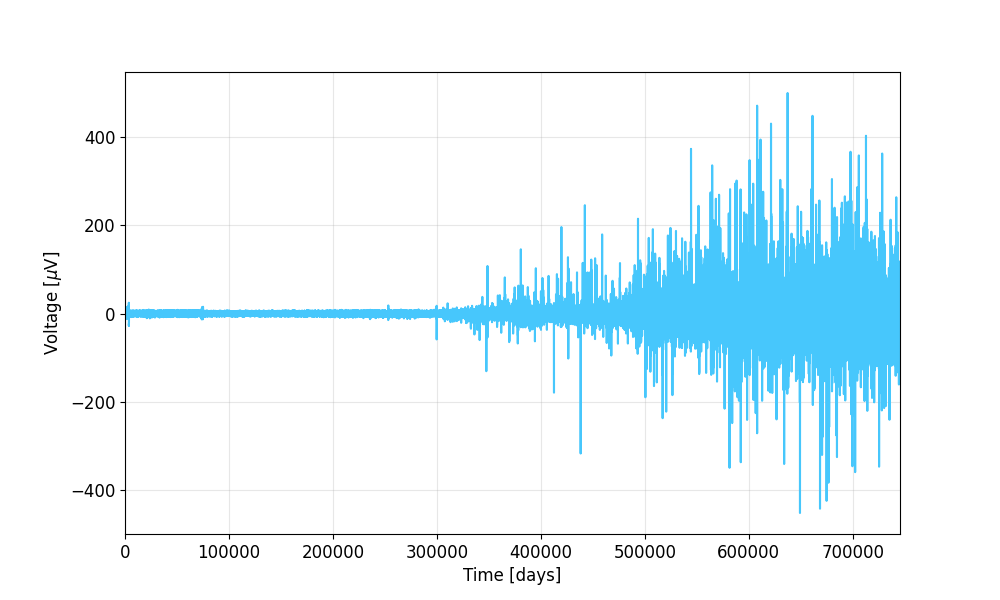
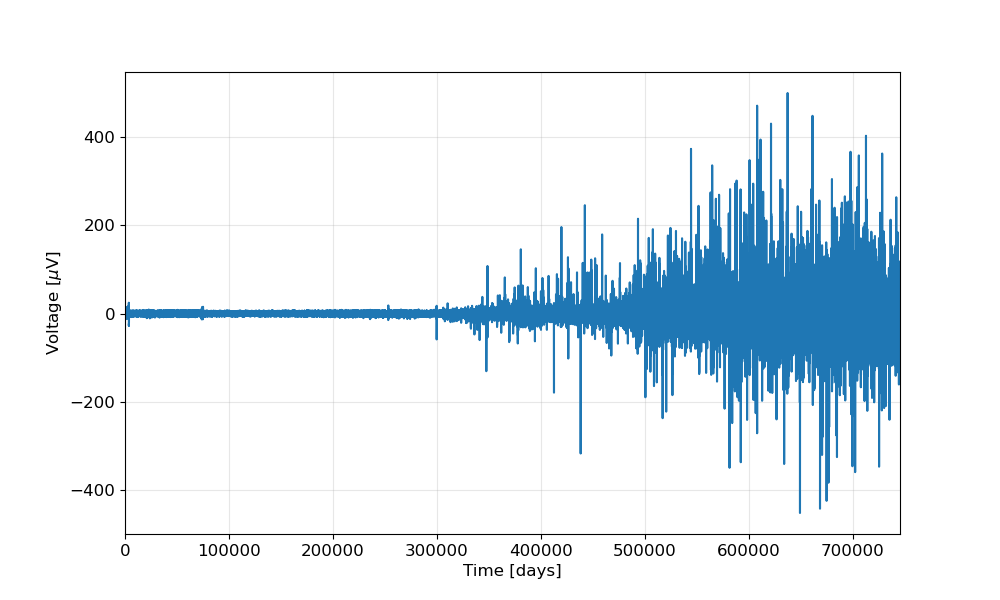
my final commit....., goodbye

diff --git a/spectrogram.py b/spectrogram.py
@@ -217,10 +217,10 @@ def saveSpectrogramSet(time, signal, signalName, folderName='plots', extension='
 # plotSpectrogram(time, fourier, 'Fourier')
 # plotSpectrogram(time, multiFourier, "MultiFourier")
 
-# saveSignal(time/(3600*24), voltage, 'plots/VoltageDays', save=True)
+saveSignal(time/(3600*24), voltage, 'plots/VoltageDays', save=True)
 
 # saveSpectrogramSet(time, signal=voltage, signalName='Voltage', changes=[['NFFT', [2**16, 2**18]]])
-saveSpectrogramSet(time, flattened, '5000ptFlattened', big=True)
+# saveSpectrogramSet(time, flattened, '5000ptFlattened', big=True)
 # saveSpectrogramSet(time, baseline, 'Baseline', big=True)
 # saveSpectrogramSet(time, butterworth, 'Butterworth')
 # saveSpectrogramSet(time, rollingAverage, "50PtRolling")
@@ -234,9 +234,9 @@ saveSpectrogramSet(time, flattened, '5000ptFlattened', big=True)
 
 # saveSpectrogram(time, multiFourier, 'plots/MultiFourierSpectrogramLogZoom', log=True, zoomToInterestingFrequencies=True)
 # saveSpectrogram(time, voltage, 'plots/VoltageSpectrogramLogZoom', log=True, zoomToInterestingFrequencies=True)
-# saveSpectrogramSet(time, voltage, 'Voltage', big=True)
+saveSpectrogramSet(time, voltage, 'Voltage', big=True)
 # saveSpectrogramSet(time, savgol, 'Savitzky-Golay', big=True)
-# saveSpectrogramSet(time, savgolOffset, 'Savitzky-GolayWithOffset', big=True)
+saveSpectrogramSet(time, savgolOffset, 'Savitzky-GolayWithOffset', big=True)
 
 # saveFFT(time, voltage, 'plots/VoltageLogFFT.png', log=True)
 # saveFFT(time, savgolOffset, 'plots/Savitzky-GolayWithOffsetFFT.png')

diff --git a/Data_visualisation_function.py b/Data_visualisation_function.py
@@ -10,7 +10,7 @@ def set_plt_defaults(font_size=12):
     """
     # Set the default color cycle to start with light blue and orange
     plt.rcParams['axes.prop_cycle'] = plt.cycler('color', 
-                                                ['#47c7fc', '#ff8000'])
+                                                ['#1f77b4', '#ff8000'])
     
     # Set font sizes
     plt.rcParams['font.size'] = font_size

diff --git a/nice-filtering-for-report.py b/nice-filtering-for-report.py
@@ -6,7 +6,7 @@ from scipy.signal import savgol_filter
 import Data_visualisation_function
 Data_visualisation_function.set_plt_defaults()
 
-filepath = 'data/data.csv' #format: time[s], voltage[muV]
+filepath = 'data/new_data.csv' #format: time[s], voltage[muV]
 
 data = pd.read_csv(filepath)
 
